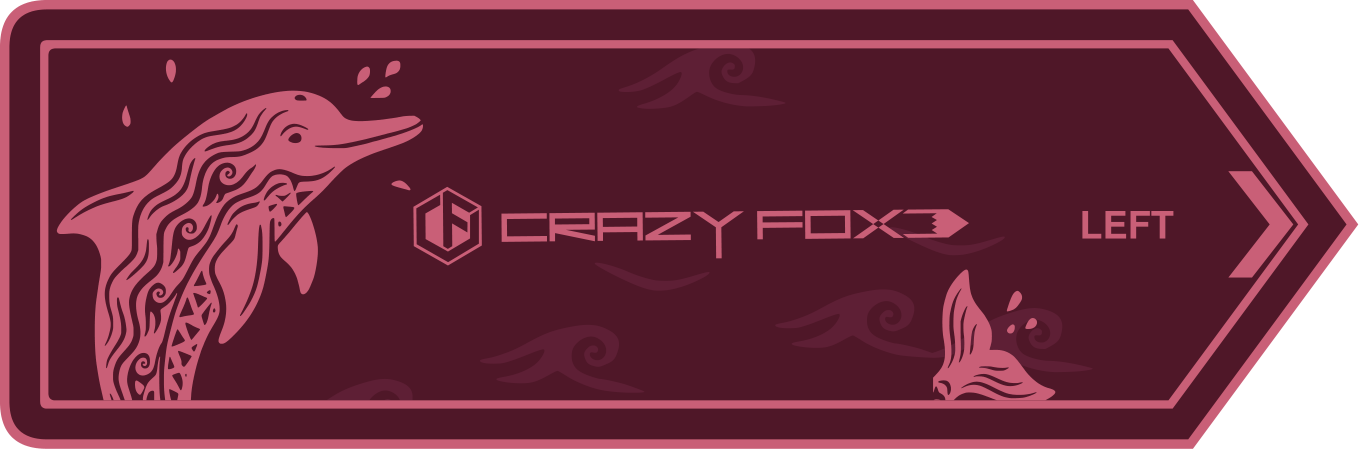
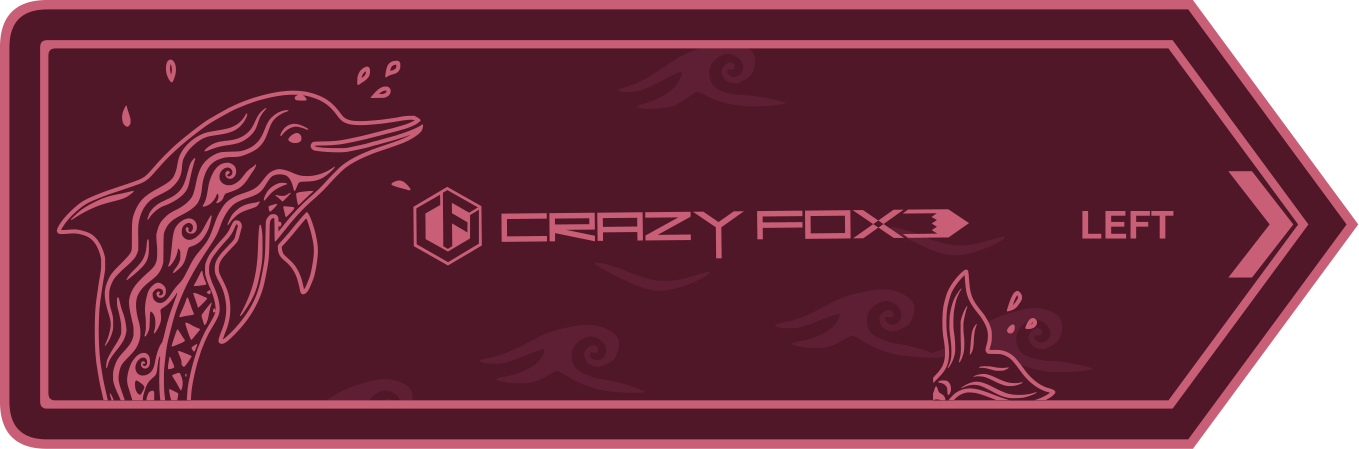
Etiqueta do velcro: boto e cauda em estilo vazado
Claude-Session: https://claude.ai/code/session_01SuZ3fEwY5fHFcvbpQMUVNP

Changed region(s): [[0.0309, 0.1871, 0.3091, 0.9042], [0.6799, 0.6236, 0.7726, 0.9042]]

diff --git a/vetores/boto-amazonia/fonte/label.py b/vetores/boto-amazonia/fonte/label.py
@@ -19,6 +19,20 @@ def clipped(d,tf,*clips):
     for c in clips: m&=mask([(c,'')],BOX)
     return trace(m,BOX)
 dol=drawing_d(V[3])
+import cv2
+def vazado(tf,*clips,ring=3.5):
+    m=mask([(dol,f'transform="{tf}"')],BOX)
+    inv=(~m).astype(np.uint8)
+    h,w=inv.shape; ff=np.zeros((h+2,w+2),np.uint8)
+    cv2.floodFill(inv,ff,(0,0),2)
+    filled=inv!=2
+    k=int(ring*clip.R)*2+1
+    er=cv2.erode(filled.astype(np.uint8),cv2.getStructuringElement(cv2.MORPH_ELLIPSE,(k,k)))>0
+    out=(filled&~m)|(filled&~er)
+    body=filled.copy()
+    for c in clips:
+        cm=mask([(c,'')],BOX); out&=cm; body&=cm
+    return trace(out,BOX),trace(body,BOX)
 # ondas (padrão tom sobre tom)
 w6,w5=drawing_d(V[6]),drawing_d(V[5])
 import cv2
@@ -41,10 +55,10 @@ for d,tf in [(w6,'translate(380 -135)'),(w5,'translate(470 -420)'),(w6,'translat
 wm&=mask([(art,'')],BOX)
 waves=trace(wm,BOX)
 # boto: cabeça no canto superior esquerdo, inteira dentro da moldura
-s=1.30; head=clipped(dol,f'matrix({s} 0 0 {s} {48-95*s:.1f} {50-250*s:.1f})',art)
+s=1.30; head,headbody=vazado(f'matrix({s} 0 0 {s} {48-95*s:.1f} {50-250*s:.1f})',art)
 # cauda no canto inferior direito, saindo "da água"
 corner='M790 200H1010V345H790Z'
-t=1.15; tail=clipped(dol,f'matrix({t} 0 0 {-t} {905-290*t:.1f} {228+647*t:.1f})',art,corner)
+t=1.15; tail,tailbody=vazado(f'matrix({t} 0 0 {-t} {905-290*t:.1f} {228+647*t:.1f})',art,corner)
 # logo horizontal
 logo=''.join(drawing_d(L[i]) for i in range(13,26))
 ls=470/491; logo_g=f'<g id="logo-crazy-fox" fill="{PINK}" transform="matrix({ls:.4f} 0 0 {ls:.4f} {350-189*ls:.1f} {158-229*ls:.1f})"><path d="{logo}"/></g>'
@@ -58,7 +72,9 @@ svg=f'''<?xml version="1.0" encoding="UTF-8"?>
 <path id="fundo" fill="{BG}" d="{inner_bg}"/>
 <path id="padrao-ondas" fill="{DARK2}" fill-rule="evenodd" d="{waves}"/>
 <path id="moldura-interna" fill="{PINK}" fill-rule="evenodd" d="{frame_out} {frame_in}"/>
+<path id="boto-cabeca-fundo" fill="{BG}" d="{headbody}"/>
 <path id="boto-cabeca" fill="{PINK}" fill-rule="evenodd" d="{head}"/>
+<path id="boto-cauda-fundo" fill="{BG}" d="{tailbody}"/>
 <path id="boto-cauda" fill="{PINK}" fill-rule="evenodd" d="{tail}"/>
 {logo_g}
 <g id="left" transform="translate(955 202)">{left}</g>
